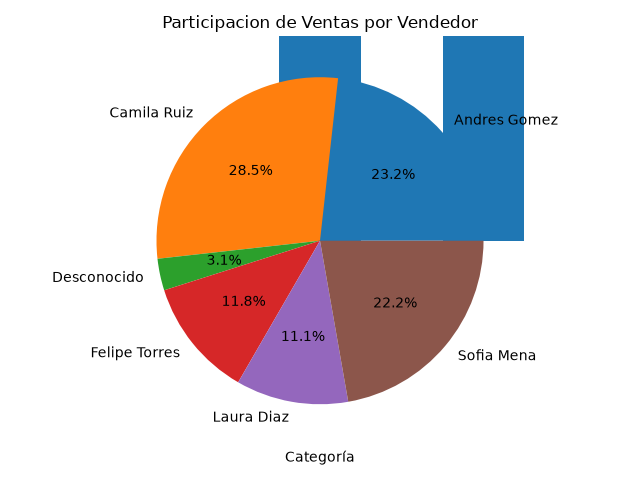
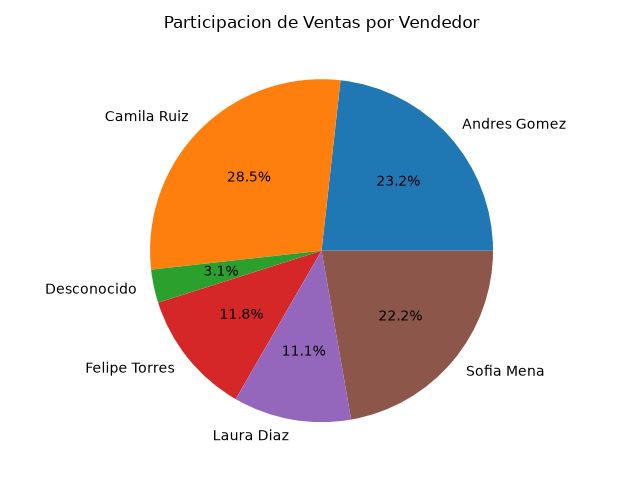
agregar análisis de producto más vendido

diff --git a/bot_reporte.py b/bot_reporte.py
@@ -79,6 +79,7 @@ plt.xticks(rotation=0)
 plt.tight_layout()  # Ajusta los elementos para que no se corten
 plt.savefig(os.path.join(CARPETA_RESULTADOS, "grafico_categoria.png"))
 plt.show()
+plt.close()  # Cierra la figura para que el siguiente grafico no se dibuje encima
 
 # 6b. Participación por vendedor (gráfico de torta)
 ventas_por_vendedor = df_consolidado.groupby('vendedor')['precio_unitario'].sum()
@@ -87,10 +88,19 @@ plt.ylabel('')  # No aplica en gráficos de torta
 plt.tight_layout()
 plt.savefig(os.path.join(CARPETA_RESULTADOS, "grafico_vendedor.png"))
 plt.show()
+plt.close()  # Buena practica: no dejar figuras abiertas al terminar
 
-# 6c. Producto que más veces aparece en las ventas (value_counts)
+# 6c. Productos más vendidos con value_counts()
+#     Si hay empate en el primer puesto, se reportan todos los empatados
 productos_mas_vendidos = df_consolidado['producto'].value_counts()
 print("\nProductos por número de ventas:")
 print(productos_mas_vendidos.head(10))
-producto_top = productos_mas_vendidos.idxmax()
-print(f"\nEl producto que más veces aparece es: {producto_top} ({productos_mas_vendidos.max()} veces)")
+
+max_ventas = productos_mas_vendidos.max()
+empatados = list(productos_mas_vendidos[productos_mas_vendidos == max_ventas].index)
+if len(empatados) == 1:
+    print(f"\nEl producto más vendido es: {empatados[0]} ({max_ventas} veces)")
+else:
+    print(f"\nEmpate en el primer puesto con {max_ventas} ventas cada uno:")
+    for p in empatados:
+        print(f"  - {p}")
